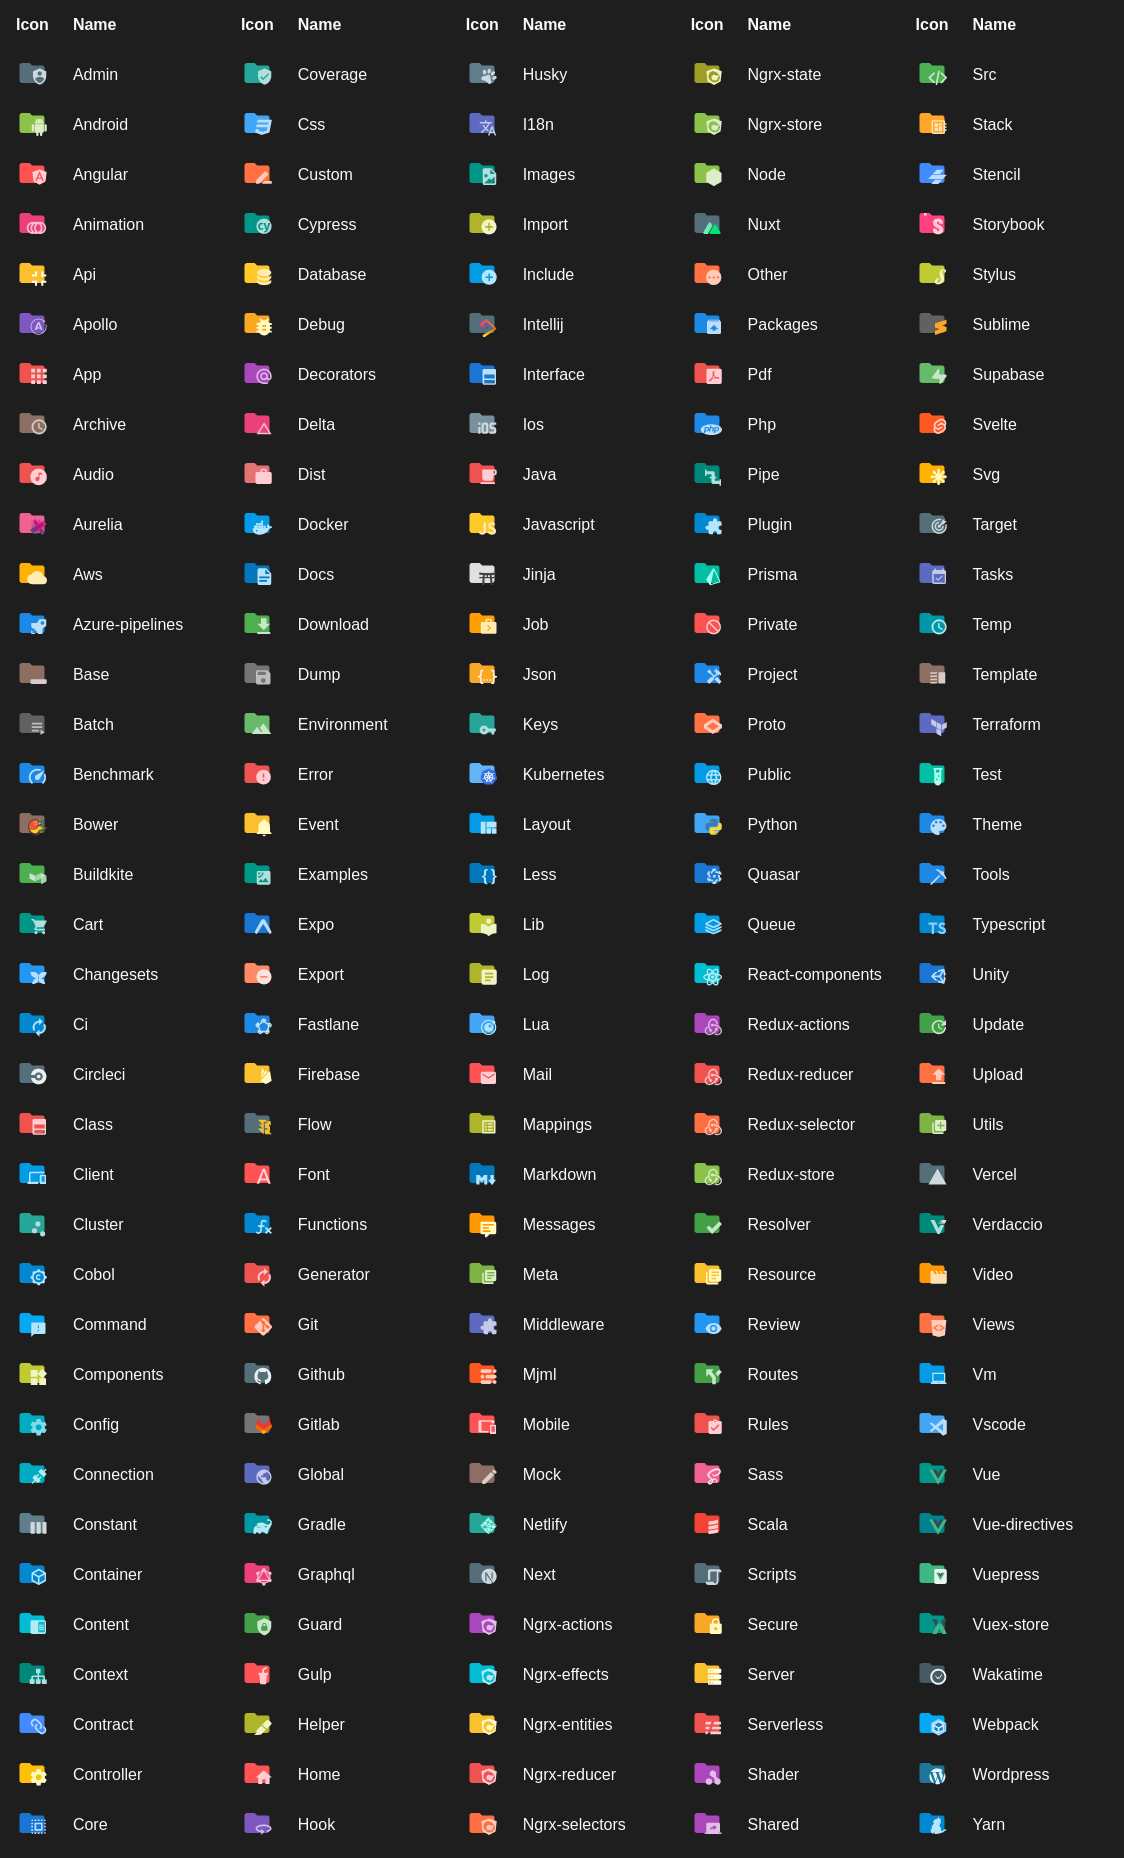
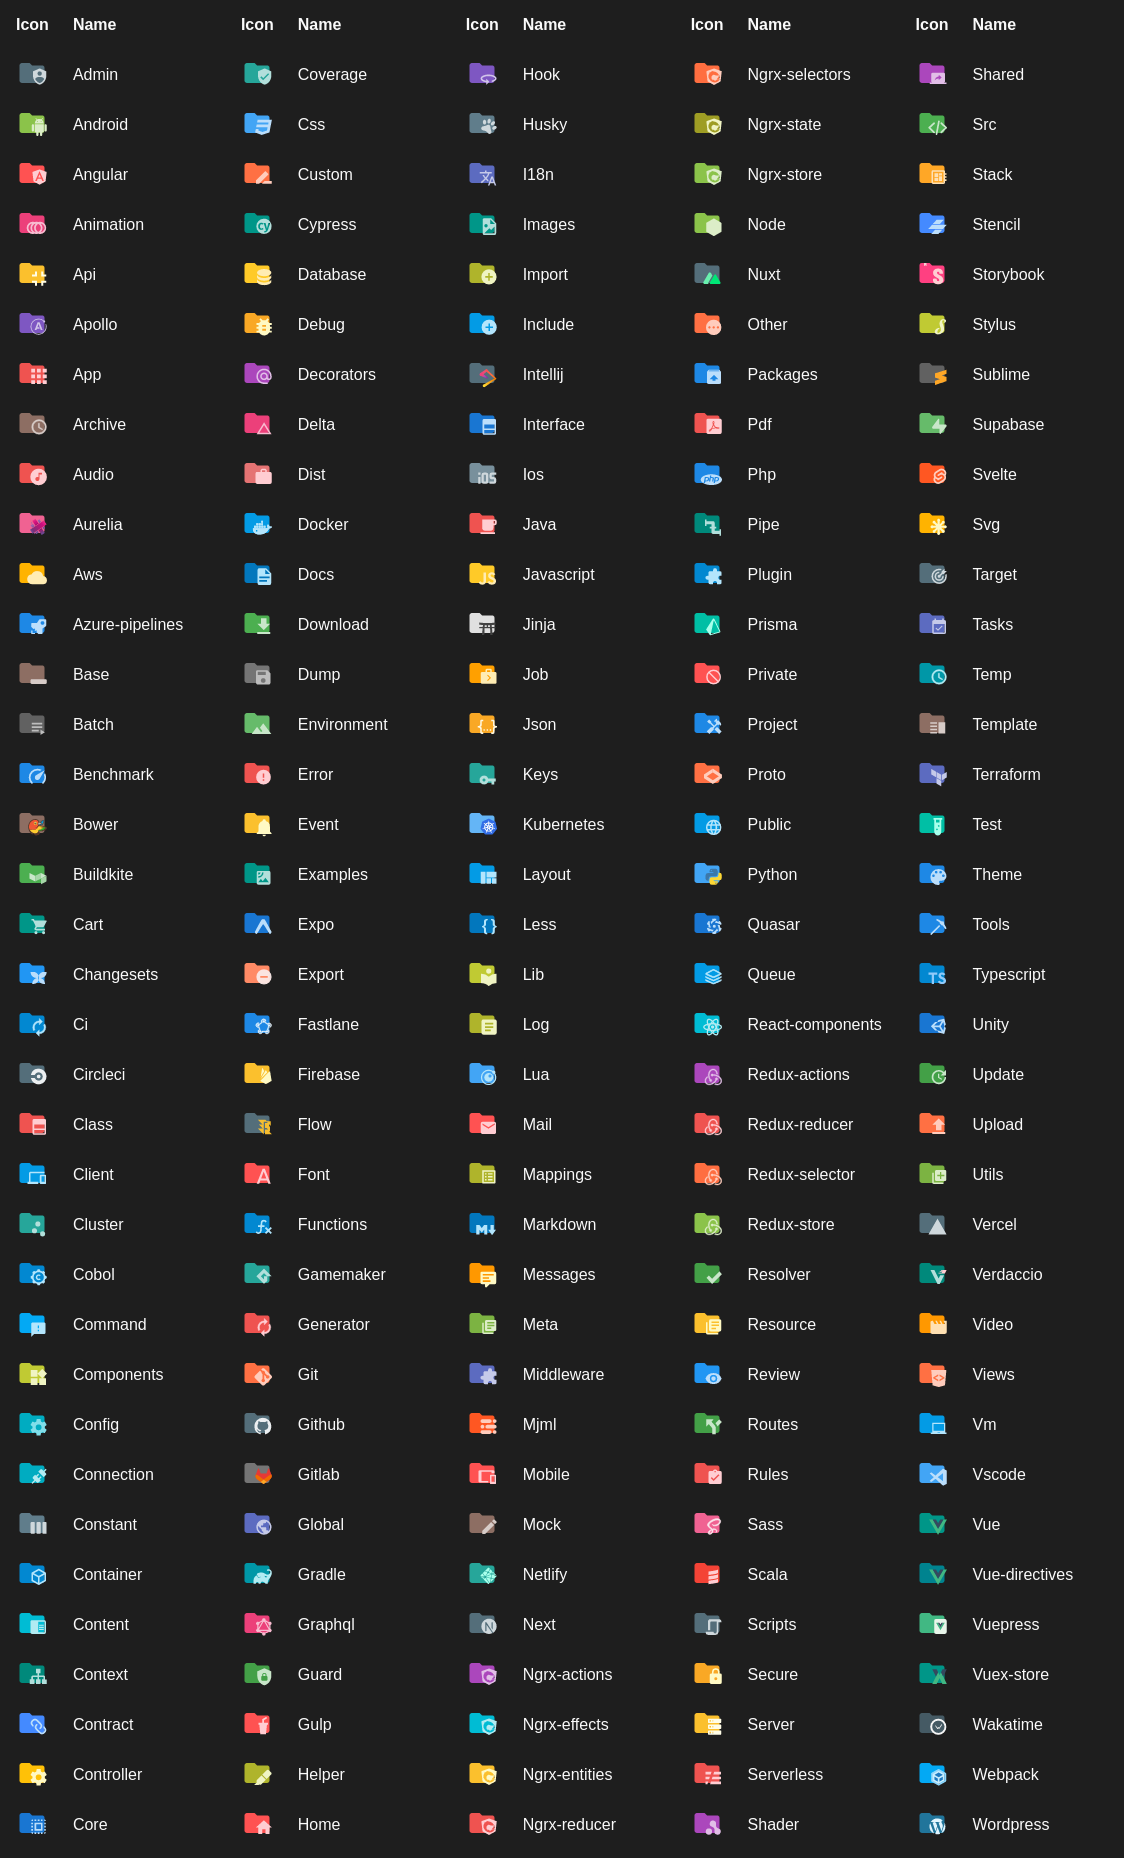
Release 4.25.0

diff --git a/CHANGELOG.md b/CHANGELOG.md
@@ -3,6 +3,26 @@
  All notable changes to this project will be documented in this file. Dates are displayed in UTC.
 
  
+#### [v4.25.0](https://github.com/PKief/vscode-material-icon-theme/compare/v4.24.0...v4.25.0) 
+
+> March 15, 2023 
+
+- Remove logo of sponsor [`#1893`](https://github.com/PKief/vscode-material-icon-theme/pull/1893)
+- build(deps-dev): bump webpack from 5.72.1 to 5.76.0 [`#1901`](https://github.com/PKief/vscode-material-icon-theme/pull/1901)
+- Additional git filenames [`#1891`](https://github.com/PKief/vscode-material-icon-theme/pull/1891)
+- Add type test file support [`#1874`](https://github.com/PKief/vscode-material-icon-theme/pull/1874)
+- Add folder name gulp-tasks [`#1875`](https://github.com/PKief/vscode-material-icon-theme/pull/1875)
+- Gatsby - add new supported file extensions [`#1886`](https://github.com/PKief/vscode-material-icon-theme/pull/1886)
+- Objective-C/C++ icons & associations [`#1888`](https://github.com/PKief/vscode-material-icon-theme/pull/1888)
+- Update bitbucket icon [`#1890`](https://github.com/PKief/vscode-material-icon-theme/pull/1890)
+- feat: :sparkles: Bun icon to bun.lockb [`#1709`](https://github.com/PKief/vscode-material-icon-theme/pull/1709)
+- feat: add GameMaker icon [`#1868`](https://github.com/PKief/vscode-material-icon-theme/pull/1868)
+- extend todo to more files [`#1879`](https://github.com/PKief/vscode-material-icon-theme/pull/1879)
+- Convert Pascal to Vector [`#1883`](https://github.com/PKief/vscode-material-icon-theme/pull/1883)
+- Expand godot-assets associations [`#1863`](https://github.com/PKief/vscode-material-icon-theme/pull/1863)
+- feat: add tldraw icon [`#1869`](https://github.com/PKief/vscode-material-icon-theme/pull/1869)
+- Add tsconfig.doc.json icon association [`c03e18d`](https://github.com/PKief/vscode-material-icon-theme/commit/c03e18d)
+ 
 #### [v4.24.0](https://github.com/PKief/vscode-material-icon-theme/compare/v4.23.1...v4.24.0) 
 
 > February 9, 2023 
